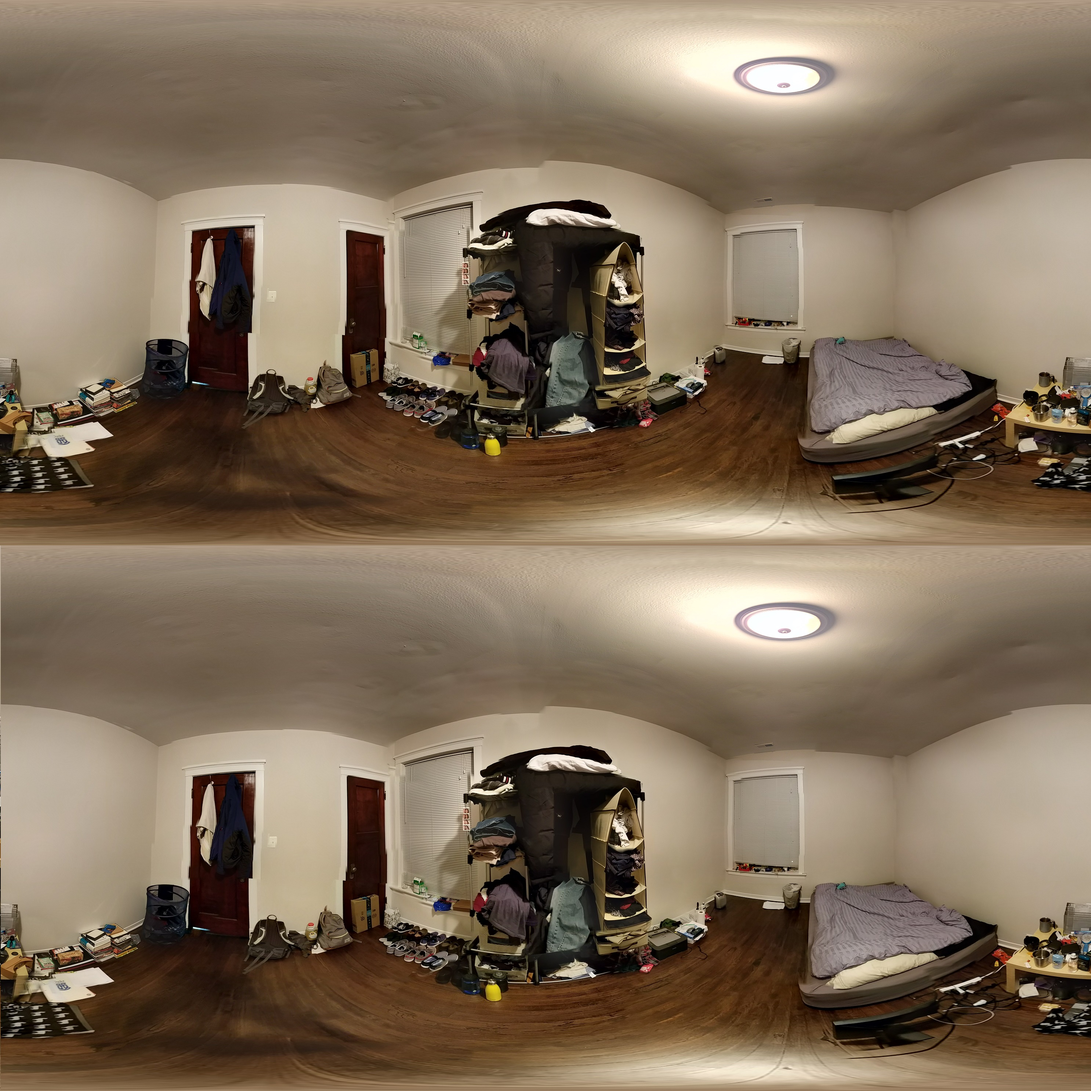
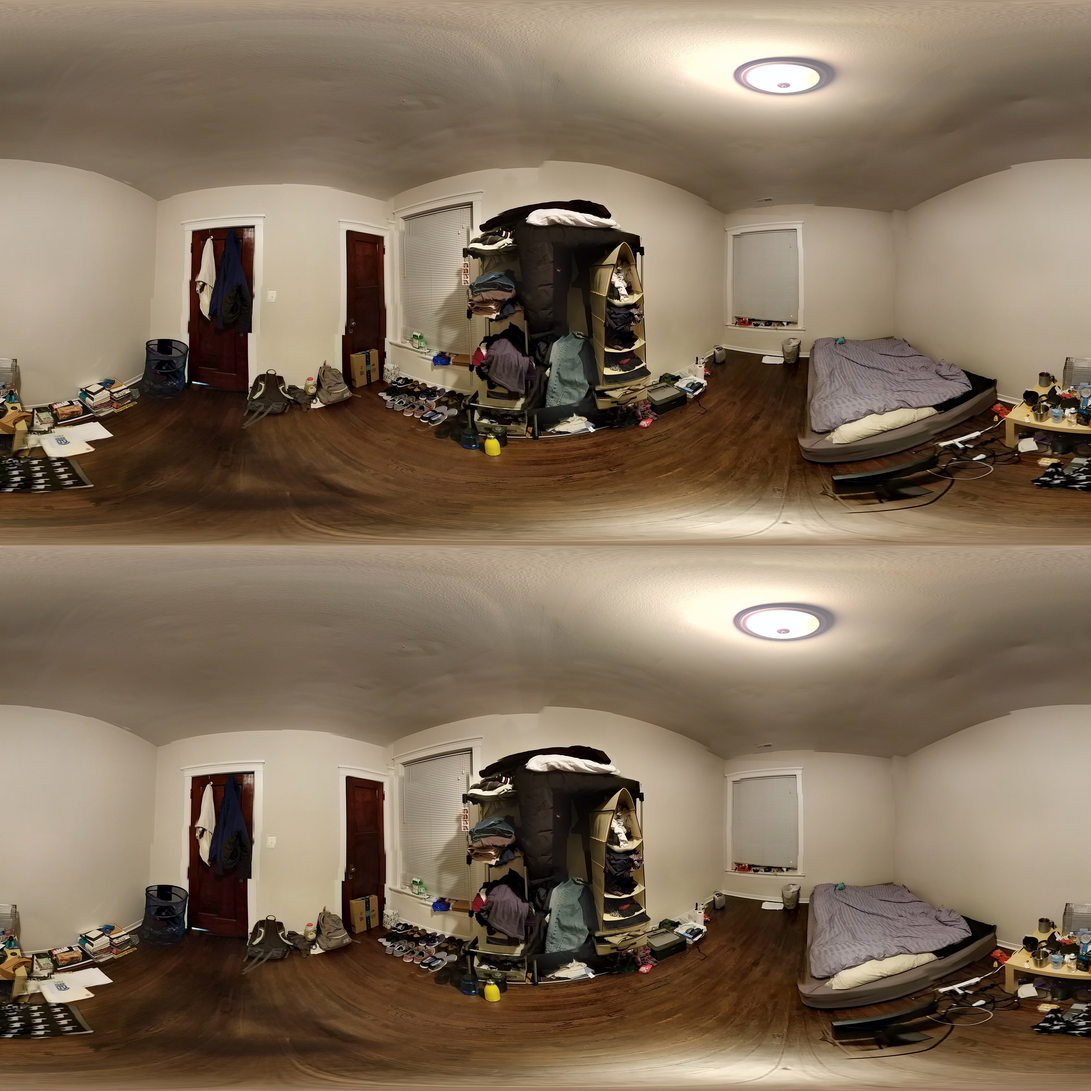
added bedroom2

diff --git a/vrpropertytour/app/src/main/java/com/google/devrel/vrviewapp/FloorplanActivity.java b/vrpropertytour/app/src/main/java/com/google/devrel/vrviewapp/FloorplanActivity.java
@@ -37,7 +37,7 @@ public class FloorplanActivity extends Activity {
             public void onClick(View v) {
                 Bundle bundle = new Bundle();
                 Intent intent = new Intent(FloorplanActivity.this, RoomActivity.class);
-                bundle.putString("picture", "bedroom1Small.jpg");
+                bundle.putString("picture", "bedroom1.jpg");
                 intent.putExtras(bundle);
                 startActivity(intent);
             }
@@ -48,7 +48,7 @@ public class FloorplanActivity extends Activity {
             public void onClick(View v) {
                 Bundle bundle = new Bundle();
                 Intent intent = new Intent(FloorplanActivity.this, RoomActivity.class);
-                bundle.putString("picture", "livingRoom.jpg"); //CHANGE HERE
+                bundle.putString("picture", "bedroom2.jpg");
                 intent.putExtras(bundle);
                 startActivity(intent);
             }

diff --git a/vrpropertytour/app/src/main/java/com/google/devrel/vrviewapp/RoomActivity.java b/vrpropertytour/app/src/main/java/com/google/devrel/vrviewapp/RoomActivity.java
@@ -78,7 +78,7 @@ public class RoomActivity extends AppCompatActivity {
         intent.putExtra(RecognizerIntent.EXTRA_LANGUAGE_MODEL, RecognizerIntent.LANGUAGE_MODEL_FREE_FORM);
         intent.putExtra(RecognizerIntent.EXTRA_PROMPT, "Which room would you like to visit?");
         startActivityForResult(intent, VOICE_RECOGNITION_REQUEST_CODE);
-        
+
     }
 
     @Override
@@ -93,7 +93,7 @@ public class RoomActivity extends AppCompatActivity {
                 finish();
                 startActivity(intent);
             } else if (matches.contains("bedroom two")) {
-                bundle.putString("picture", "kitchen.jpg"); //CHANGE HERE
+                bundle.putString("picture", "bedroom2.jpg");
                 intent.putExtras(bundle);
                 finish();
                 startActivity(intent);

diff --git a/vrpropertytour/app/src/main/java/com/google/devrel/vrviewapp/ImageLoaderTask.java b/vrpropertytour/app/src/main/java/com/google/devrel/vrviewapp/ImageLoaderTask.java
@@ -11,7 +11,6 @@ import java.io.IOException;
 import java.io.InputStream;
 
 public class ImageLoaderTask extends AsyncTask<AssetManager, Void, Bitmap> {
-    private static final String TAG = "com.google.devrel.vrviewapp.ImageLoaderTask";
     private final String assetName;
     private final WeakReference<VrPanoramaView> viewReference;
     private final VrPanoramaView.Options viewOptions;
